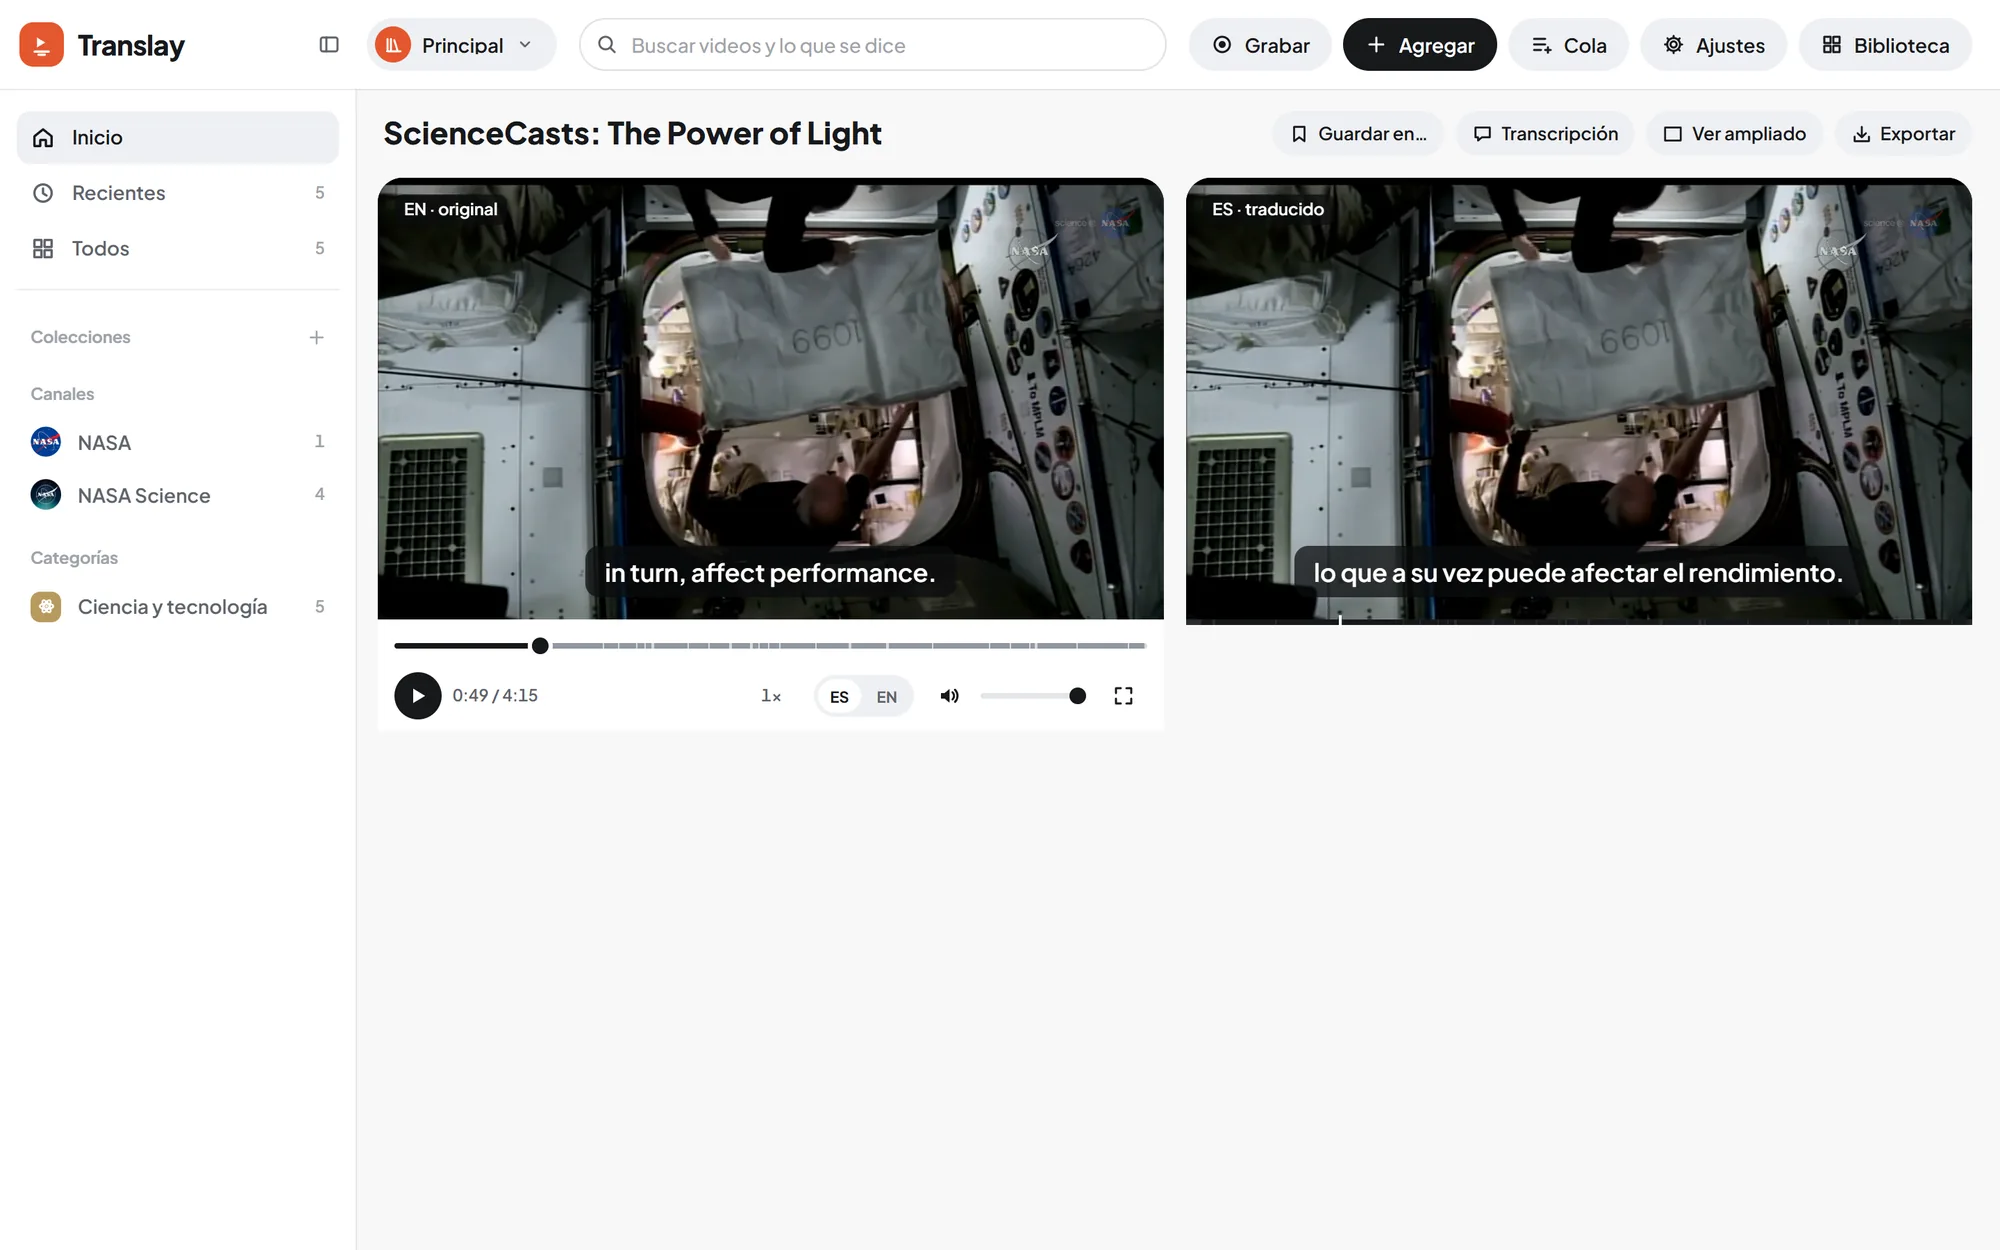
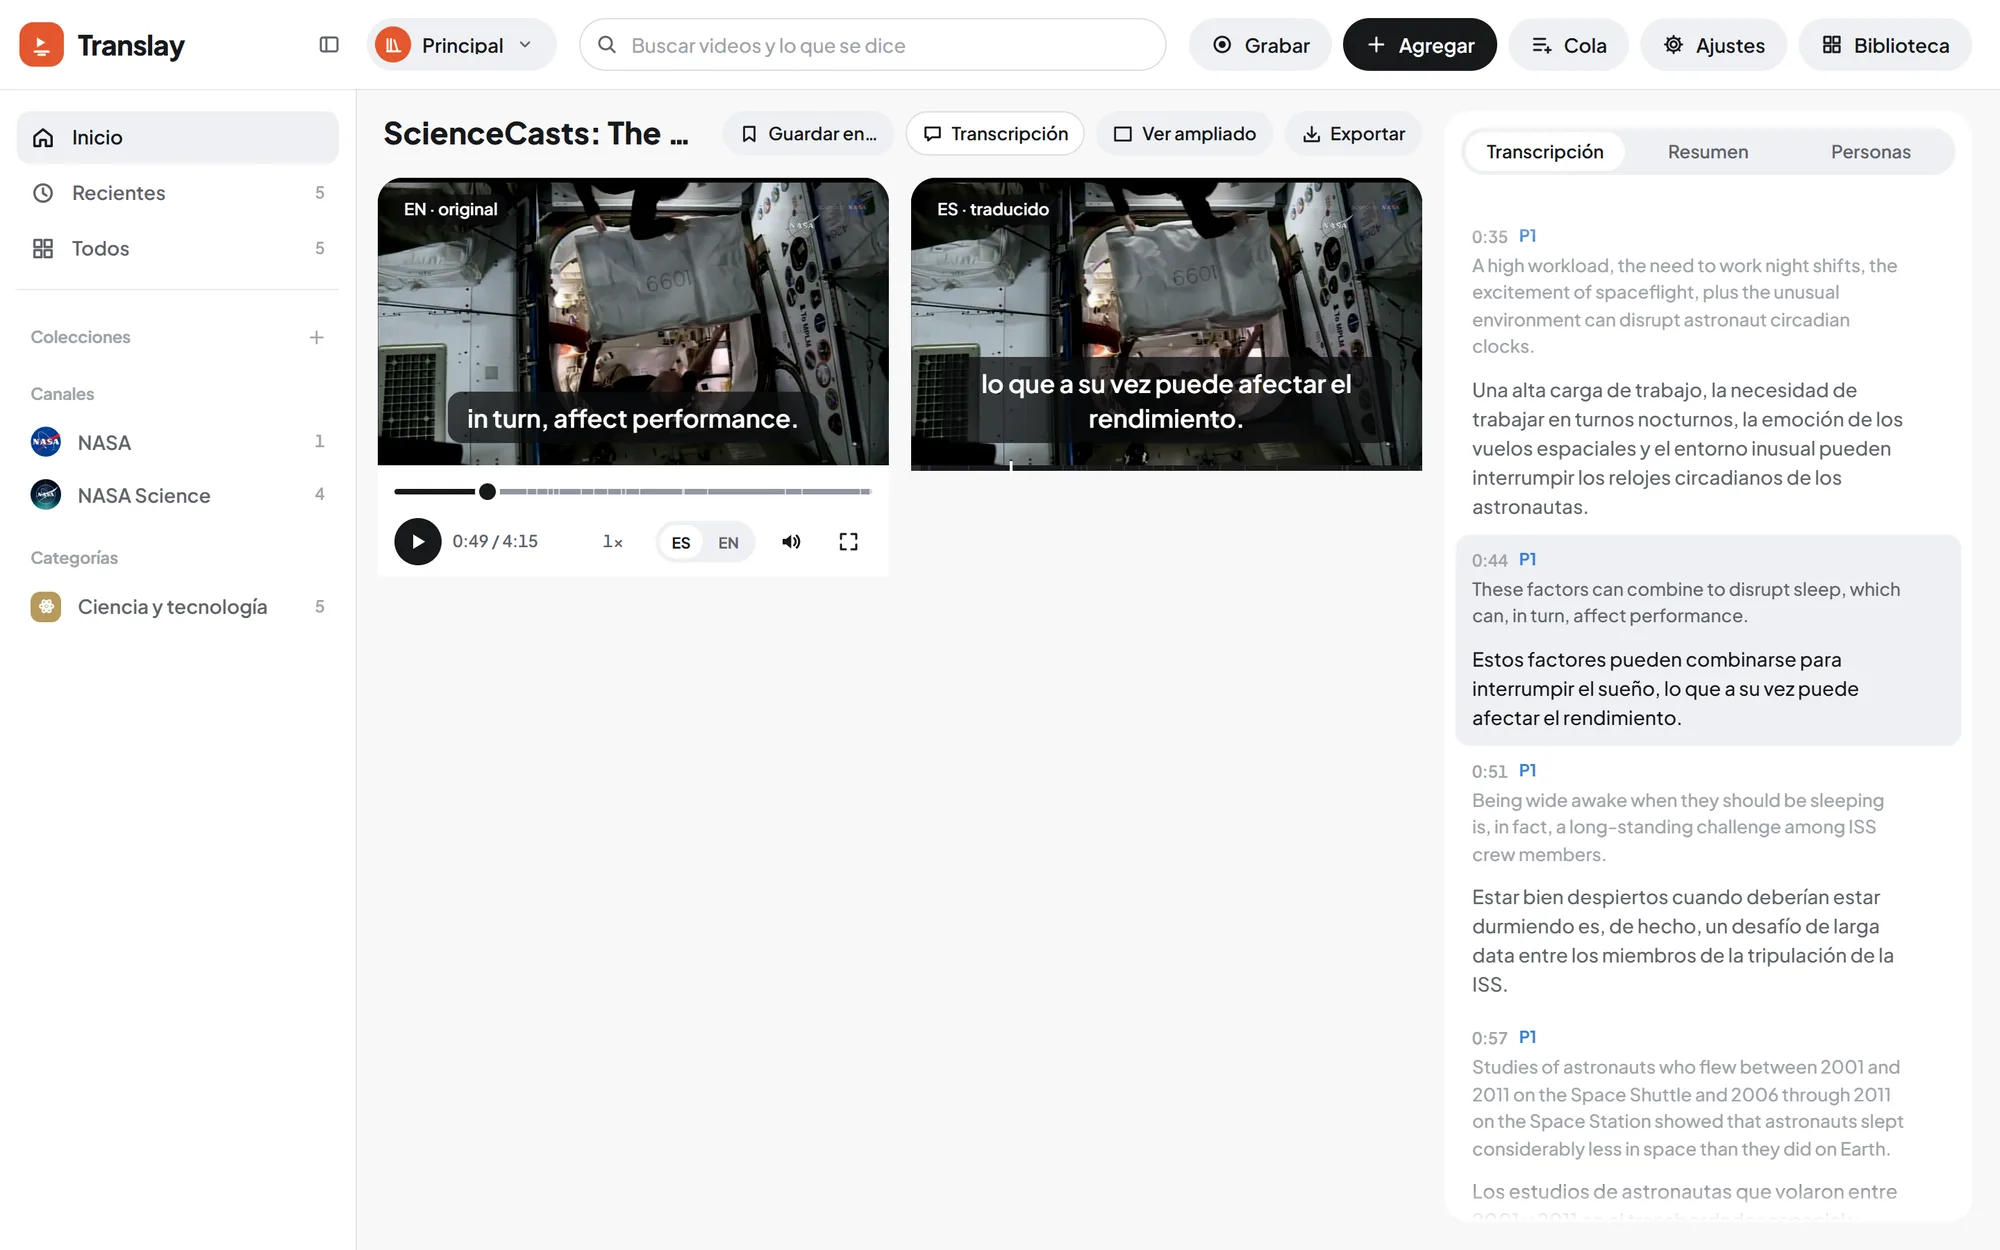
fix(player): move the subtitle off the ready chip and stack transcript
- Player: the English subtitle at the top of the expanded view moves down
  whenever «Listo para reproducir» is visible, not only while it prepares,
  so the chip no longer covers it
- Transcript: the side panel always shows the original small above the
  Spanish; in the split view it used two columns too narrow for its 380 px
- Screenshots: retake the player, split and people shots in dark and light;
  the split shot now keeps the transcript panel visible
- Docs: describe the stacked transcript rows in English and Spanish

Changed region(s): [[0.186, 0.0936, 0.992, 0.6864], [0.744, 0.8112, 0.961, 0.9672], [0.744, 0.7176, 0.93, 0.78]]

diff --git a/web/css/views/transcript.css b/web/css/views/transcript.css
@@ -37,18 +37,18 @@ body.side-off .side { display: none; }
 .transcript li.gap span { font: 500 var(--fs-xs)/1.4 var(--font); color: var(--fg-faint); }
 .transcript li.gap.busy strong { color: var(--fg); }
 .transcript li.gap.busy span { display: none; }
-body.layout-wide .transcript li.gap .cell { grid-template-columns: 1fr; }
+.transcript li.gap .cell { grid-template-columns: 1fr; }
 
-/* ampliado: inglés pequeño arriba, español debajo */
-body.layout-wide .transcript li { grid-template-columns: 1fr; gap: 0; }
-body.layout-wide .transcript .cell:first-child p { font-size: var(--fs-sm); color: var(--fg-faint); }
-body.layout-wide .transcript li.active .cell:first-child p { color: var(--fg-muted); }
-body.layout-wide .transcript .cell:last-child p { font: 600 var(--fs-body)/1.45 var(--font); }
-body.layout-wide .transcript .cell { grid-template-columns: 1fr; gap: 2px; }
-body.layout-wide .transcript .cell + .cell { padding-top: 0; }
-body.layout-wide .transcript .cell + .cell time { display: none; }
-body.layout-wide .transcript time { display: flex; gap: var(--s2); line-height: 1.5; }
-body.layout-wide .transcript .spk { display: inline; font-size: var(--fs-xs); }
+/* en las dos vistas el panel es angosto: inglés pequeño arriba, español debajo (nunca dos columnas) */
+.transcript li { grid-template-columns: 1fr; gap: 0; }
+.transcript .cell:first-child p { font-size: var(--fs-sm); color: var(--fg-faint); }
+.transcript li.active .cell:first-child p { color: var(--fg-muted); }
+.transcript .cell:last-child p { font: 600 var(--fs-body)/1.45 var(--font); }
+.transcript .cell { grid-template-columns: 1fr; gap: 2px; }
+.transcript .cell + .cell { padding-top: 0; }
+.transcript .cell + .cell time { display: none; }
+.transcript time { display: flex; gap: var(--s2); line-height: 1.5; }
+.transcript .spk { display: inline; font-size: var(--fs-xs); }
 
 /* ------------------------------------------------------------ comentarios */
 .transcript .cbtn {
@@ -57,7 +57,7 @@ body.layout-wide .transcript .spk { display: inline; font-size: var(--fs-xs); }
 }
 .transcript .cbtn svg { width: 12px; height: 12px; stroke-width: 1.8; }
 .transcript li:hover .cbtn { display: grid; }
-.transcript li .cell:last-child, body.layout-wide .transcript li .cell { padding-right: 40px; }
+.transcript li .cell { padding-right: 40px; }
 .transcript .cbtn.has { display: inline-flex; align-items: center; gap: 3px; width: auto; padding: 0 7px; border-radius: var(--r-pill); font: 700 11px/1 var(--font); }
 .transcript .cbtn.has svg { width: 11px; height: 11px; }
 
@@ -128,4 +128,4 @@ body.native .transcript .cell:first-child { display: none; }
 /* original y traducción iguales (un video en español marcado con otro idioma): una sola */
 .transcript li.same { grid-template-columns: 1fr; gap: 0; }
 .transcript li.same .cell:first-child { display: none; }
-body.layout-wide .transcript li.same .cell + .cell time { display: flex; }
+.transcript li.same .cell + .cell time { display: flex; }

diff --git a/web/css/views/player.css b/web/css/views/player.css
@@ -54,8 +54,8 @@ body.no-sub-en #cap-en { display: none !important; }
 body.layout-wide .ready { top: var(--s4); left: var(--s4); right: auto; }
 .ready[data-state="ok"] { animation: ready-out .4s 2.5s forwards; }
 @keyframes ready-out { to { opacity: 0; visibility: hidden; } }
-/* mientras prepara, el subtítulo en inglés baja un poco para no encimarse */
-body.layout-wide .screen:has(.ready:not([hidden]):not([data-state="ok"])) #cap-en { top: 56px; }
+/* con el indicador a la vista, el subtítulo en inglés baja para no encimarse */
+body.layout-wide .screen:has(.ready:not([hidden])) #cap-en { top: 56px; }
 
 /* ------------------------------------------------------------- controles */
 .ctrl {

diff --git a/CHANGELOG.md b/CHANGELOG.md
@@ -22,6 +22,7 @@ The same entries in Spanish: [CHANGELOG.es.md](https://github.com/alenj0x1/trans
 ### Fixed
 
 - Library: with videos selected, the title, how many and the actions stay on one row; when the actions don't fit, they show only their icon instead of overlapping or spilling out.
+- Player: «Listo para reproducir» (Ready to play) no longer covers the English subtitle at the top of the expanded view, and in the split view the transcript shows the original small above the Spanish instead of two very narrow columns.
 
 ## 1.12.0 · 2026-11-12
 

diff --git a/CHANGELOG.es.md b/CHANGELOG.es.md
@@ -22,6 +22,7 @@ Las mismas entradas en inglés: [CHANGELOG.md](https://github.com/alenj0x1/trans
 ### Corregido
 
 - Biblioteca: con videos elegidos, el título, cuántos y las acciones quedan en una fila; si las acciones no caben, muestran solo su ícono en vez de encimarse o salirse.
+- Reproductor: «Listo para reproducir» ya no tapa el subtítulo en inglés arriba de la vista ampliada, y en la vista dividida la transcripción muestra el original pequeño arriba del español en vez de dos columnas muy angostas.
 
 ## 1.12.0 · 2026-11-12
 
